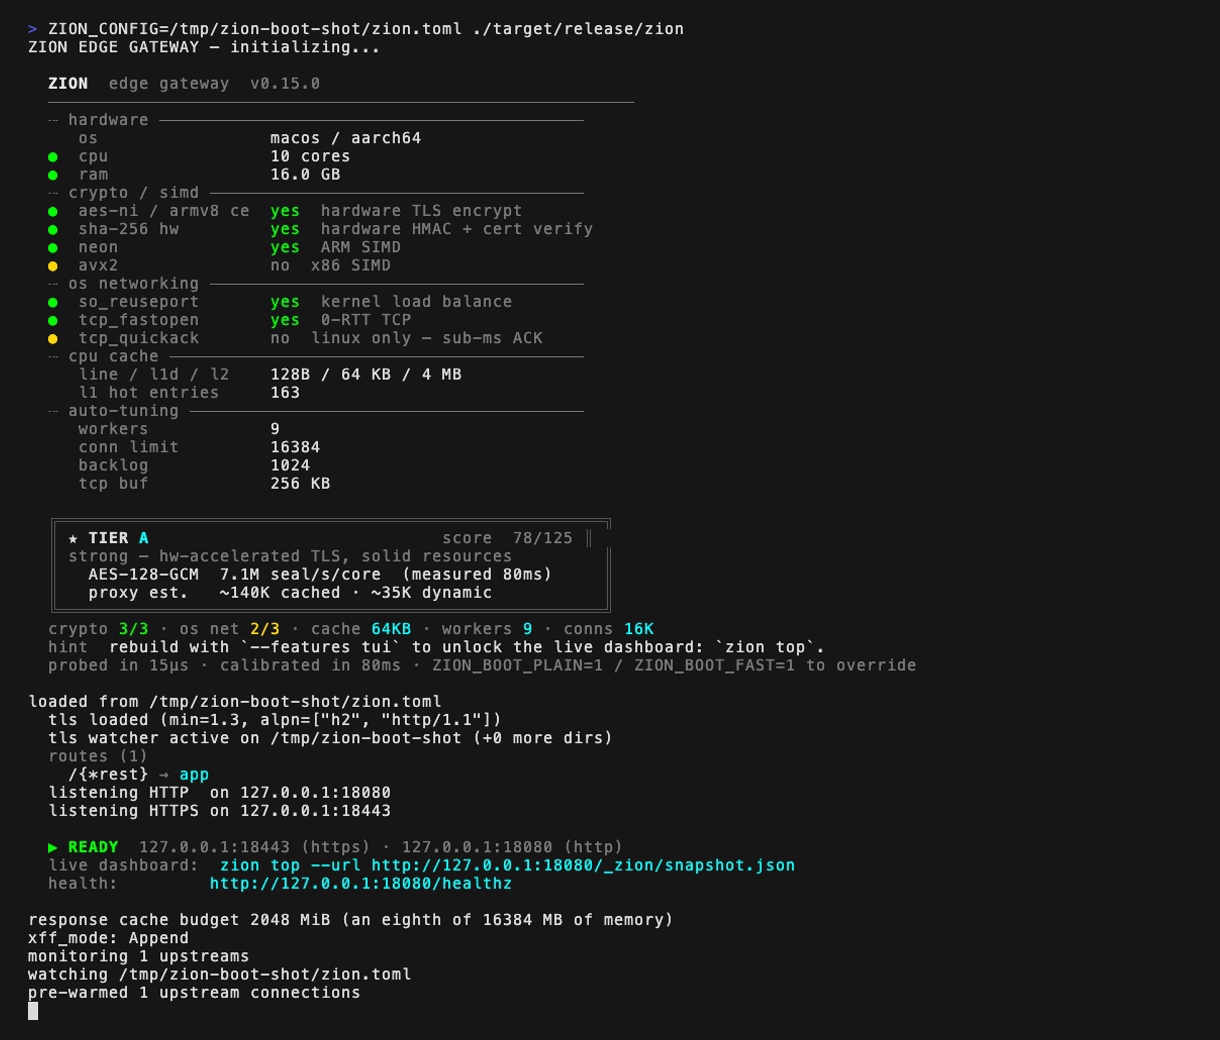
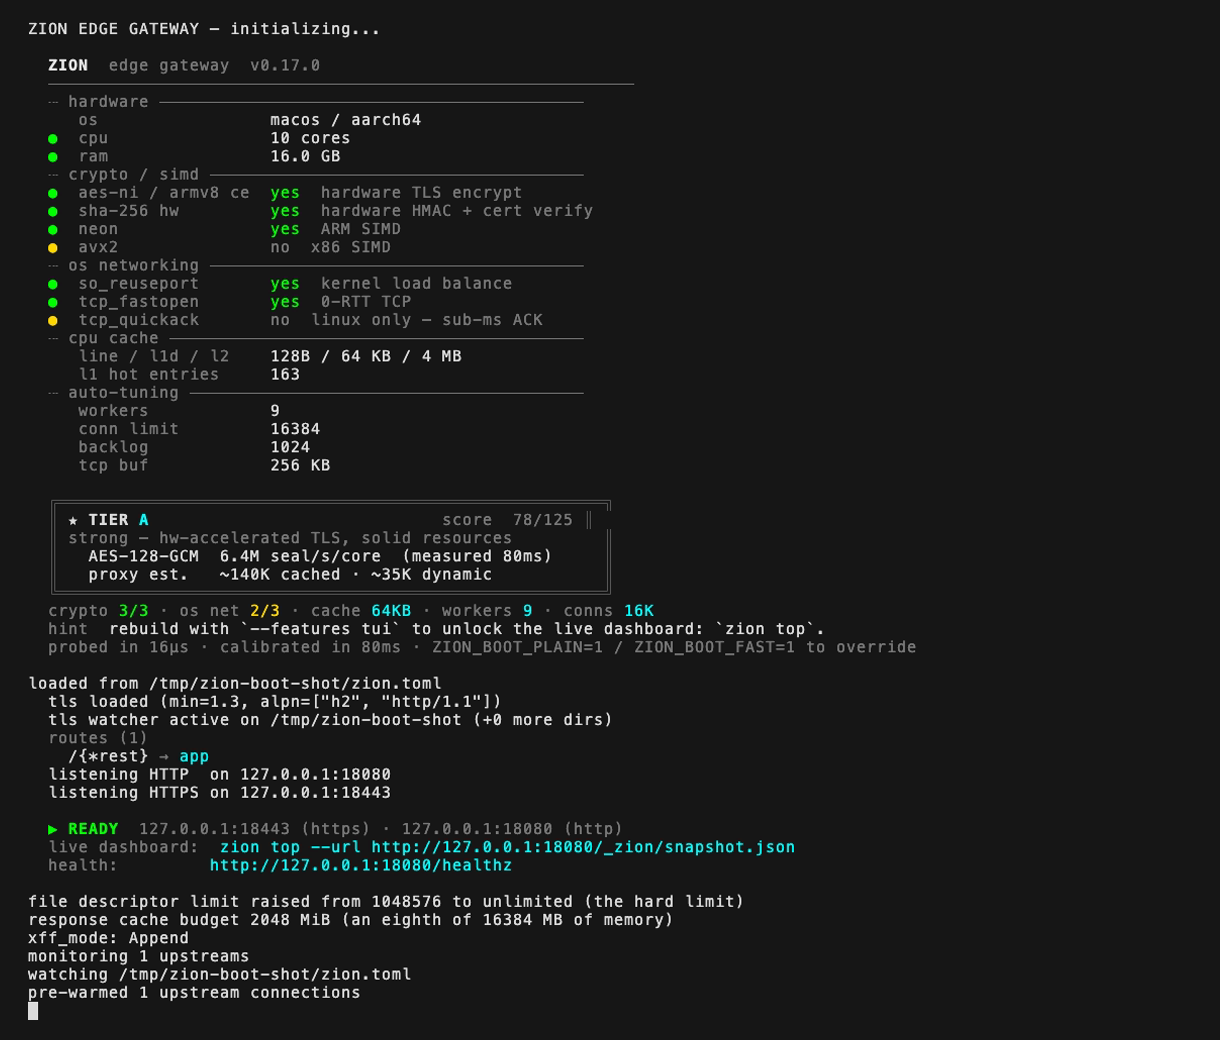
chore(release): v0.17.0 (#807)
* chore(release): v0.17.0

Bump the version to 0.17.0 across Cargo.toml/lock, the Helm chart, README,
SECURITY, the docs and the issue template (version-sync clean), regenerate the
README boot screenshot from the real binary, and cut the CHANGELOG [0.17.0]
section: two crash fixes (h2c DEL on the plain-HTTP listener, HTTP/3 after a
certificate reload), HTTP/3 client_auth from boot, client-IP resolution behind
trusted proxies, JWT aud/iss required, WebSocket sessions counted against the
connection limits, boot-time audit/ACME/fd checks, OTel request spans and the
JA4 User-Agent check, with nine upgrade notes.

* docs(changelog): name the HTTP/2 stack that lets a DEL through in :path, and say the client-IP test client plays the trusted proxy

---------

Changed region(s): [[0.0311, 0.0, 0.7475, 0.8923], [0.4049, 0.0, 0.5607, 0.0308], [0.3426, 0.0, 0.3738, 0.0308]]

diff --git a/CHANGELOG.md b/CHANGELOG.md
@@ -4,6 +4,22 @@ All notable changes to Zion Edge Gateway are documented here.
 
 ## [Unreleased]
 
+## [0.17.0] - 2026-11-20
+
+**Security fixes from a code audit and a security hunt, and request spans over OpenTelemetry.** Two crashes are fixed: an h2c request with a raw DEL in its path on the plain-HTTP listener, and the first HTTP/3 handshake after a certificate reload (`--features http3`), each of which stopped the process. HTTP/3 now enforces `client_auth` from boot. Behind a trusted proxy, a client can no longer choose the address the internal-only endpoints and the rate limit go by. JWT profiles require the `aud` and `iss` they name, WebSocket sessions count against the connection limits, audit and ACME misconfigurations stop the boot instead of failing at run time, and the connection ceiling fits the file-descriptor limit.
+
+### Upgrade notes
+
+- **JWT profiles that set `audience` or `issuer` refuse tokens without that claim** (`403`). Add the claim at the issuer, or remove the setting from the profile.
+- **A proxied WebSocket session counts against `max_connections` and `max_connections_per_ip` until it ends**, and a graceful shutdown waits for open sessions up to its drain timeout.
+- **HTTP/3 (`--features http3`) enforces `[tls] client_auth` from boot**: a client without a certificate that verifies is refused at the QUIC handshake, as on TCP. HTTP/3 runs without 0-RTT.
+- **Client IP behind `trusted_proxies`**: a proxy that writes `unknown` in `X-Forwarded-For` (Squid `forwarded_for off`) now makes its clients `0.0.0.0` instead of itself, and `xff_mode = "append"` sends one comma-separated line instead of adding a second line.
+- **`zion audit verify` exits `3`** when every segment verifies but events were dropped under back-pressure; `1` still means a verification failure.
+- **Boot refuses (exit `2`)** an `[audit]` path that cannot be opened, and, with `[tls.acme]`, a certificate directory zion cannot write. The shipped systemd unit no longer restarts on exit `2` or `3`.
+- **Without `max_connections`, the connection ceiling also fits `RLIMIT_NOFILE`** (two descriptors per connection), which lowers it on large hosts under the shipped unit; boot logs the value.
+- **`webpki-roots` 1.0.12 removes six roots** (DigiCert Trusted Root G4, QuoVadis Root CA 1 G3 and 3 G3, Buypass Class 2 and Class 3, Certigna). An HTTPS upstream that chains only to one of them needs its CA in `ca_path`.
+- **Helm**: the LoadBalancer and NodePort Services render `externalTrafficPolicy: Local` (`service.externalTrafficPolicy`, empty to leave it out), so only nodes running a zion pod take traffic; the unused `ingress.*` values are removed.
+
 ### Added
 
 - **`--features otel` exports a span for every request** (#640). The root span, named `request`, carries the SAME trace id and parent span id already in the `traceparent` the request propagates (the client's own, when valid; a freshly generated one otherwise) — the exported trace stitches onto whatever sent the request, with the same trace id already in the access log, the audit record and the latency exemplar. Verified against a real OTLP collector, including client-`traceparent` propagation; an unreachable collector does not slow down or block request serving. A previous attempt (then reverted) saw correctly-built, correctly-sampled spans still ship as empty batches; this rebuild also checks `tracing-opentelemetry`'s `set_parent` `Result` (undiscussed by that attempt's notes, and not something that fails in this configuration), logging rather than discarding it — whether that was the earlier cause was not re-established, since this rebuild worked end to end on its own.
@@ -12,10 +28,10 @@ All notable changes to Zion Edge Gateway are documented here.
 ### Fixed
 
 - **The boot log says `unlimited` for an unlimited file descriptor limit.** Where the hard `RLIMIT_NOFILE` is unlimited (macOS), raising the soft limit to it logged `raised from 1048576 to 9223372036854775807`, the kernel's value for "no limit"; it now logs `raised from 1048576 to unlimited`. Nothing else changes: the connection ceiling already treated it as no bound. Unit-tested, and checked on the real binary on macOS.
-- **An h2c request to the plain-HTTP listener with a raw DEL in its path gets a `400` instead of crashing zion** (security). The `:80` listener also speaks HTTP/2 without TLS (h2c, prior knowledge), and HTTP/2 lets one byte through in `:path` that HTTP/1.1 parsing refuses and a header value cannot carry, a raw DEL (`0x7F`); h2 itself resets a stream whose path has any other control byte. The redirect to HTTPS copied the path into the `Location` header, `HeaderValue` refused it, and an `unwrap` on the response builder panicked; the release profile aborts on panic, so one unauthenticated request stopped the whole process, with every listener. The redirect now answers such a path with a `400`, and is built without an `unwrap`. Tested against the real binary over h2c (the request gets a `400`, nothing panics, the listener keeps answering) and in a unit test, and break-tested (without the fix the panic hook records the panic at the builder).
+- **An h2c request to the plain-HTTP listener with a raw DEL in its path gets a `400` instead of crashing zion** (security). The `:80` listener also speaks HTTP/2 without TLS (h2c, prior knowledge), and zion's HTTP/2 stack (the `h2` crate with `http` 1.4) lets one byte through in `:path` that HTTP/1.1 parsing refuses and a header value cannot carry, a raw DEL (`0x7F`); h2 itself resets a stream whose path has any other control byte. The redirect to HTTPS copied the path into the `Location` header, `HeaderValue` refused it, and an `unwrap` on the response builder panicked; the release profile aborts on panic, so one unauthenticated request stopped the whole process, with every listener. The redirect now answers such a path with a `400`, and is built without an `unwrap`. Tested against the real binary over h2c (the request gets a `400`, nothing panics, the listener keeps answering) and in a unit test, and break-tested (without the fix the panic hook records the panic at the builder).
 - **HTTP/3 keeps working after a certificate hot reload** (security, `--features http3`). With `hot_reload` on (the default), the reload handed the TCP listener's rustls config to the QUIC listener with only its ALPN changed, so it kept that config's `max_early_data_size` of 16384. QUIC allows only 0 or `u32::MAX`, so rustls refused every QUIC connection on the reloaded config and quinn-proto unwrapped that refusal: the first HTTP/3 handshake after a renewal (certbot, ACME, any rewrite of the certificate files), from any client, panicked and the process aborted. The QUIC listener now always runs with early data off, at boot and after a reload. HTTP/3 never took 0-RTT: early data was off in the boot config, and the reloaded one never completed a handshake. Tested against the real binary (HTTP/3 before and after an in-place certificate rewrite) and in a unit test against rustls' own QUIC check, and break-tested (without the fix the daemon dies at the second handshake).
 - **HTTP/3 enforces `client_auth` from boot, serves the `[[tls.sni]]` certificates, and attests the client certificate** (security, `--features http3`). The QUIC listener's boot config was built apart from the TCP one, from `cert_path` and `key_path` only: with `client_auth = "required"`, a client without a certificate, refused at the TCP handshake, was served over UDP `:443` (zion has no per-request certificate check; the handshake is the gate), the CRL was not consulted, and every name got the default certificate. With `hot_reload = false` this lasted for the life of the process. The QUIC listener now starts from the TCP listener's config and reloads with it, and a certificate it verified reaches the upstream as `X-Client-Cert-Fingerprint`, as over TCP (the HTTP/3 bridge only dropped the header). Tested against the real binary with `hot_reload = false` (no certificate: refused on TCP and on HTTP/3, nothing reaches the upstream; with a certificate: served on both, with the same fingerprint), and break-tested twice (the separate boot config serves the certificate-less client, `200`; a bridge that does not attest sends no fingerprint).
-- **Behind a trusted proxy, a client can no longer choose its own address** (security). With `trusted_proxies` set, the client IP (what `/metrics`, `/_zion/snapshot.json`, `POST /_zion/cache/purge`, `internal_only` routes, the per-IP request rate limit and `X-Real-IP` go by) is the rightmost `X-Forwarded-For` entry that is not a trusted proxy, and six ways around that are closed. (1) Only the first `X-Forwarded-For` field line was read: behind a proxy that adds a line of its own (HAProxy `option forwardfor`) the client's own line won; every line now counts, in order. (2) A byte that is not ASCII anywhere in the header dropped the whole header, and the client became the proxy itself, internal under the default rule; the value is now read as bytes, and such a byte spoils only its own entry. (3) A proxy entry written as `ip:port`, `[ipv6]`, `[ipv6]:port` or `unknown` was skipped, so the walk went on into the client's entries; the first three are now read as the address they carry, and an entry that is not an address stops the walk with the client unidentified, `0.0.0.0`, which no default rule admits (logged, at most three a minute). (4) On a dual-stack `[::]` listener an IPv4 peer arrived as `::ffff:a.b.c.d`, which no IPv4 entry of `trusted_proxies`, `internal_networks` or `handshake_rate_allowlist` matched, so a trusted load balancer's clients were all the balancer, internal by default, and all of IPv4 shared one handshake-rate bucket; the peer is now taken as its IPv4 address everywhere, and a list entry written in the mapped form (`::ffff:10.0.0.5`, `::ffff:10.0.0.0/104`), the only one that used to match such a peer, is read as the IPv4 network it names, so those configurations keep working. (5) The plain-HTTP listener did not resolve the client at all: behind a trusted proxy, `/_zion/snapshot.json` there answered every client as the proxy, the rate limit gave them all one bucket, and an ACME-challenge path forwarded to an upstream told it the proxy; it now resolves the client like the HTTPS pipeline. (6) A client that listed `X-Forwarded-For` in its `Connection` header, passed on by the proxy, had zion drop the header before reading it; `Connection` no longer removes it, since it is zion's own input. Also, `xff_mode = "append"` now sends one `X-Forwarded-For` line (the inbound lines joined, then the client, as nginx's `$proxy_add_x_forwarded_for`), so an upstream that reads only the first line sees zion's entry. Upgrade note: a proxy in `trusted_proxies` that writes `unknown` (Squid with `forwarded_for off`) now makes its clients `0.0.0.0` instead of itself; an upstream that read the last `X-Forwarded-For` line as one address now gets a comma list from `append`. Tested against the real binary (through a trusted loopback proxy on both listeners, and on a `[::]` listener reached over IPv4: 22 checks of gate answers, `X-Real-IP` and the `append` line, plus 4 controls) and in unit tests, and break-tested (with the previous code all 22 failed and the 4 controls held; each of the last three fixes was also removed on its own, and its check failed).
+- **Behind a trusted proxy, a client can no longer choose its own address** (security). With `trusted_proxies` set, the client IP (what `/metrics`, `/_zion/snapshot.json`, `POST /_zion/cache/purge`, `internal_only` routes, the per-IP request rate limit and `X-Real-IP` go by) is the rightmost `X-Forwarded-For` entry that is not a trusted proxy, and six ways around that are closed. (1) Only the first `X-Forwarded-For` field line was read: behind a proxy that adds a line of its own (HAProxy `option forwardfor`) the client's own line won; every line now counts, in order. (2) A byte that is not ASCII anywhere in the header dropped the whole header, and the client became the proxy itself, internal under the default rule; the value is now read as bytes, and such a byte spoils only its own entry. (3) A proxy entry written as `ip:port`, `[ipv6]`, `[ipv6]:port` or `unknown` was skipped, so the walk went on into the client's entries; the first three are now read as the address they carry, and an entry that is not an address stops the walk with the client unidentified, `0.0.0.0`, which no default rule admits (logged, at most three a minute). (4) On a dual-stack `[::]` listener an IPv4 peer arrived as `::ffff:a.b.c.d`, which no IPv4 entry of `trusted_proxies`, `internal_networks` or `handshake_rate_allowlist` matched, so a trusted load balancer's clients were all the balancer, internal by default, and all of IPv4 shared one handshake-rate bucket; the peer is now taken as its IPv4 address everywhere, and a list entry written in the mapped form (`::ffff:10.0.0.5`, `::ffff:10.0.0.0/104`), the only one that used to match such a peer, is read as the IPv4 network it names, so those configurations keep working. (5) The plain-HTTP listener did not resolve the client at all: behind a trusted proxy, `/_zion/snapshot.json` there answered every client as the proxy, the rate limit gave them all one bucket, and an ACME-challenge path forwarded to an upstream told it the proxy; it now resolves the client like the HTTPS pipeline. (6) A client that listed `X-Forwarded-For` in its `Connection` header, passed on by the proxy, had zion drop the header before reading it; `Connection` no longer removes it, since it is zion's own input. Also, `xff_mode = "append"` now sends one `X-Forwarded-For` line (the inbound lines joined, then the client, as nginx's `$proxy_add_x_forwarded_for`), so an upstream that reads only the first line sees zion's entry. Upgrade note: a proxy in `trusted_proxies` that writes `unknown` (Squid with `forwarded_for off`) now makes its clients `0.0.0.0` instead of itself; an upstream that read the last `X-Forwarded-For` line as one address now gets a comma list from `append`. Tested against the real binary (with the test client acting as the trusted proxy on loopback, on both listeners, and on a `[::]` listener reached over IPv4: 22 checks of gate answers, `X-Real-IP` and the `append` line, plus 4 controls) and in unit tests, and break-tested (with the previous code all 22 failed and the 4 controls held; each of the last three fixes was also removed on its own, and its check failed).
 - **A profile that sets `audience` or `issuer` refuses a token that has no `aud` or `iss` claim** (security). jsonwebtoken compares `aud` and `iss` only when the token carries them, and zion did not mark them as required, so a token signed by the same key that simply left the claim out (one minted for another service behind the same IdP) passed the profile's scoping; a token with a different value was already refused. A configured `audience` / `issuer` is now a required claim. Upgrade note: a client whose tokens carry no `aud` (or `iss`) on a route whose profile sets it now gets `403`; either add the claim at the issuer or remove the setting from the profile. Unit-tested for both claims and break-tested (dropping either requirement fails its test).
 - **A cache fill from an upstream that hangs mid-body no longer holds that URL for every client.** Requests for a key that is being fetched wait for that one fetch (singleflight), and the fill read the upstream body with no deadline: an upstream that sent its headers and then stopped kept every request for the URL waiting until each client's 1 h connection cap. A fill now gets the upstream's `request_timeout_ms` per body frame, the same no-progress window the request had; past it the fill is given up (nothing stored, counted in the new `zion_cache_fill_stalled`) and the waiting requests fetch for themselves. The client that triggered the fetch keeps streaming whatever the upstream sends, as on an uncached route. A fill whose client goes away while the upstream is silent is now released at once, instead of when the next body frame would have had nowhere to go. A download that keeps moving is unaffected, however long it takes. Both halves are tested end to end against a hanging in-process origin and break-tested separately.
 - **A proxied WebSocket session counts against `max_connections` and `max_connections_per_ip` until it ends** (security). At the upgrade, hyper ends the client connection's own task and hands the socket to the relay; the global permit and the per-IP slot lived in that task, so they were released at the `101` while the session stayed open, by default for up to a day (`websocket_max_session_secs`). One address could keep any number of sessions open past both limits, until file descriptors ran out, and the shutdown drain did not count them. The relay now holds the connection's permit, per-IP slot and place in `zion_active_connections` until the session ends; a request without `Upgrade` carries nothing extra. Upgrade note: a client that opens many WebSocket sessions from one address is now limited by `max_connections_per_ip` like any other connections, and a graceful shutdown waits for open sessions up to its drain timeout. Tested against the real binary for both limits (two open sessions fill a limit of two, a third connection is refused, and closing a session frees its slot) and break-tested (a relay that drops the hold fails both).

diff --git a/docs/security/supply-chain.md b/docs/security/supply-chain.md
@@ -46,8 +46,8 @@ You need the GitHub CLI (`gh >= 2.49`) and `cosign >= 2.2`.
 
 ```bash
 # 1. Download the artifact + SHA256SUMS from the release page.
-gh release download v0.16.0 -R fabriziosalmi/zion \
-    -p 'zion-v0.16.0-x86_64-unknown-linux-musl.tar.gz' \
+gh release download v0.17.0 -R fabriziosalmi/zion \
+    -p 'zion-v0.17.0-x86_64-unknown-linux-musl.tar.gz' \
     -p 'SHA256SUMS' \
     -p 'zion-sbom.cdx.json'
 
@@ -55,7 +55,7 @@ gh release download v0.16.0 -R fabriziosalmi/zion \
 sha256sum --check --ignore-missing SHA256SUMS
 
 # 3. Verify the SLSA build provenance bound to the artifact's hash.
-gh attestation verify zion-v0.16.0-x86_64-unknown-linux-musl.tar.gz \
+gh attestation verify zion-v0.17.0-x86_64-unknown-linux-musl.tar.gz \
     --owner fabriziosalmi
 
 # Step 3 fails if:
@@ -78,7 +78,7 @@ grype zion-sbom.cdx.json
 ## Verifying a container image
 
 ```bash
-IMAGE=ghcr.io/fabriziosalmi/zion:v0.16.0
+IMAGE=ghcr.io/fabriziosalmi/zion:v0.17.0
 
 # 1. Pin to the digest immediately — tags are mutable, digests are not.
 DIGEST=$(crane digest "$IMAGE")
@@ -138,7 +138,7 @@ do not depend on the directory, on where cargo's home is, or on the toolchain's
 components. To rebuild the Linux musl artifact:
 
 ```bash
-git clone --depth 1 --branch v0.16.0 https://github.com/fabriziosalmi/zion && cd zion
+git clone --depth 1 --branch v0.17.0 https://github.com/fabriziosalmi/zion && cd zion
 export SOURCE_DATE_EPOCH=$(git log -1 --pretty=%ct)
 export ZION_GIT_SHA=$(git rev-parse --short=12 HEAD)
 export ZION_COMMIT_DATE=$(git show -s --format=%cd --date=format:%Y-%m-%d HEAD)
@@ -158,12 +158,12 @@ sha256sum target/x86_64-unknown-linux-musl/release/zion
 the one inside the published archive:
 
 ```bash
-tar -xzOf zion-v0.16.0-x86_64-unknown-linux-musl.tar.gz zion | sha256sum
+tar -xzOf zion-v0.17.0-x86_64-unknown-linux-musl.tar.gz zion | sha256sum
 ```
 
 or recreate the archive with the same `tar` flags and compare it against
 `SHA256SUMS`. The toolchain is pinned end to end: Rust 1.88.0, `zig` 0.13.0 and
-`cargo-zigbuild` 0.23.4 (the versions that built v0.16.0; the workflow installs
+`cargo-zigbuild` 0.23.4 (the versions that built v0.17.0; the workflow installs
 exactly these).
 
 **Releases up to 0.12** were built without the remapping, and have no such script.

diff --git a/README.md b/README.md
@@ -321,12 +321,12 @@ Every release is signed and carries SLSA v1.0 build provenance — see
 
 ```bash
 # Binary release (Sigstore-backed provenance via gh CLI)
-gh release download v0.16.0 -R fabriziosalmi/zion -p '*x86_64-unknown-linux-musl*' -p 'SHA256SUMS'
+gh release download v0.17.0 -R fabriziosalmi/zion -p '*x86_64-unknown-linux-musl*' -p 'SHA256SUMS'
 sha256sum --check --ignore-missing SHA256SUMS
-gh attestation verify zion-v0.16.0-x86_64-unknown-linux-musl.tar.gz --owner fabriziosalmi
+gh attestation verify zion-v0.17.0-x86_64-unknown-linux-musl.tar.gz --owner fabriziosalmi
 
 # Container image (cosign keyless)
-cosign verify ghcr.io/fabriziosalmi/zion:v0.16.0 \
+cosign verify ghcr.io/fabriziosalmi/zion:v0.17.0 \
     --certificate-identity-regexp "^https://github.com/fabriziosalmi/zion/\\.github/workflows/release\\.yml@refs/tags/v" \
     --certificate-oidc-issuer "https://token.actions.githubusercontent.com"
 ```

diff --git a/docs/index.md b/docs/index.md
@@ -20,7 +20,7 @@ description: One auditable Rust binary at the edge — TLS 1.3 termination, a ze
     <aside class="ds-spec">
       <div class="cap">Specification</div>
       <dl>
-        <div class="ds-row"><dt>Version</dt><dd class="tnum">0.16.0</dd></div>
+        <div class="ds-row"><dt>Version</dt><dd class="tnum">0.17.0</dd></div>
         <div class="ds-row"><dt>Language</dt><dd>Rust · MSRV 1.82</dd></div>
         <div class="ds-row"><dt>Binary</dt><dd class="tnum">~4 MB · static</dd></div>
         <div class="ds-row"><dt>TLS proxy</dt><dd class="tnum">108<span class="u">k</span> req/s</dd></div>

diff --git a/.github/ISSUE_TEMPLATE/bug_report.md b/.github/ISSUE_TEMPLATE/bug_report.md
@@ -21,7 +21,7 @@ A clear and concise description of what you expected to happen.
 **Environment (please complete the following information):**
  - OS: [e.g. Linux, macOS]
  - Architecture: [e.g. arm64, amd64]
- - Zion Version: [e.g. 0.16.0]
+ - Zion Version: [e.g. 0.17.0]
 
 **Additional context**
 Add any other context about the problem here (e.g. logs with `RUST_LOG=trace`, upstream backend type like Go/Node).

diff --git a/SECURITY.md b/SECURITY.md
@@ -8,7 +8,7 @@ the current version.
 
 | Version | Supported |
 | ------- | --------- |
-| < 0.16.0 | No |
+| < 0.17.0 | No |
 
 Everything at or above that line is the current release. Stated as a single
 threshold on purpose — the previous wording carried a second, hardcoded row

diff --git a/docs/deploy/hot-reload.md b/docs/deploy/hot-reload.md
@@ -135,7 +135,7 @@ Two surfaces report the reload state:
 
   ```json
   {
-    "version": "0.16.0",
+    "version": "0.17.0",
     "timestamp_ms": 1714425600000,
     "uptime_secs": 3712,
     "config_generation": 5,
